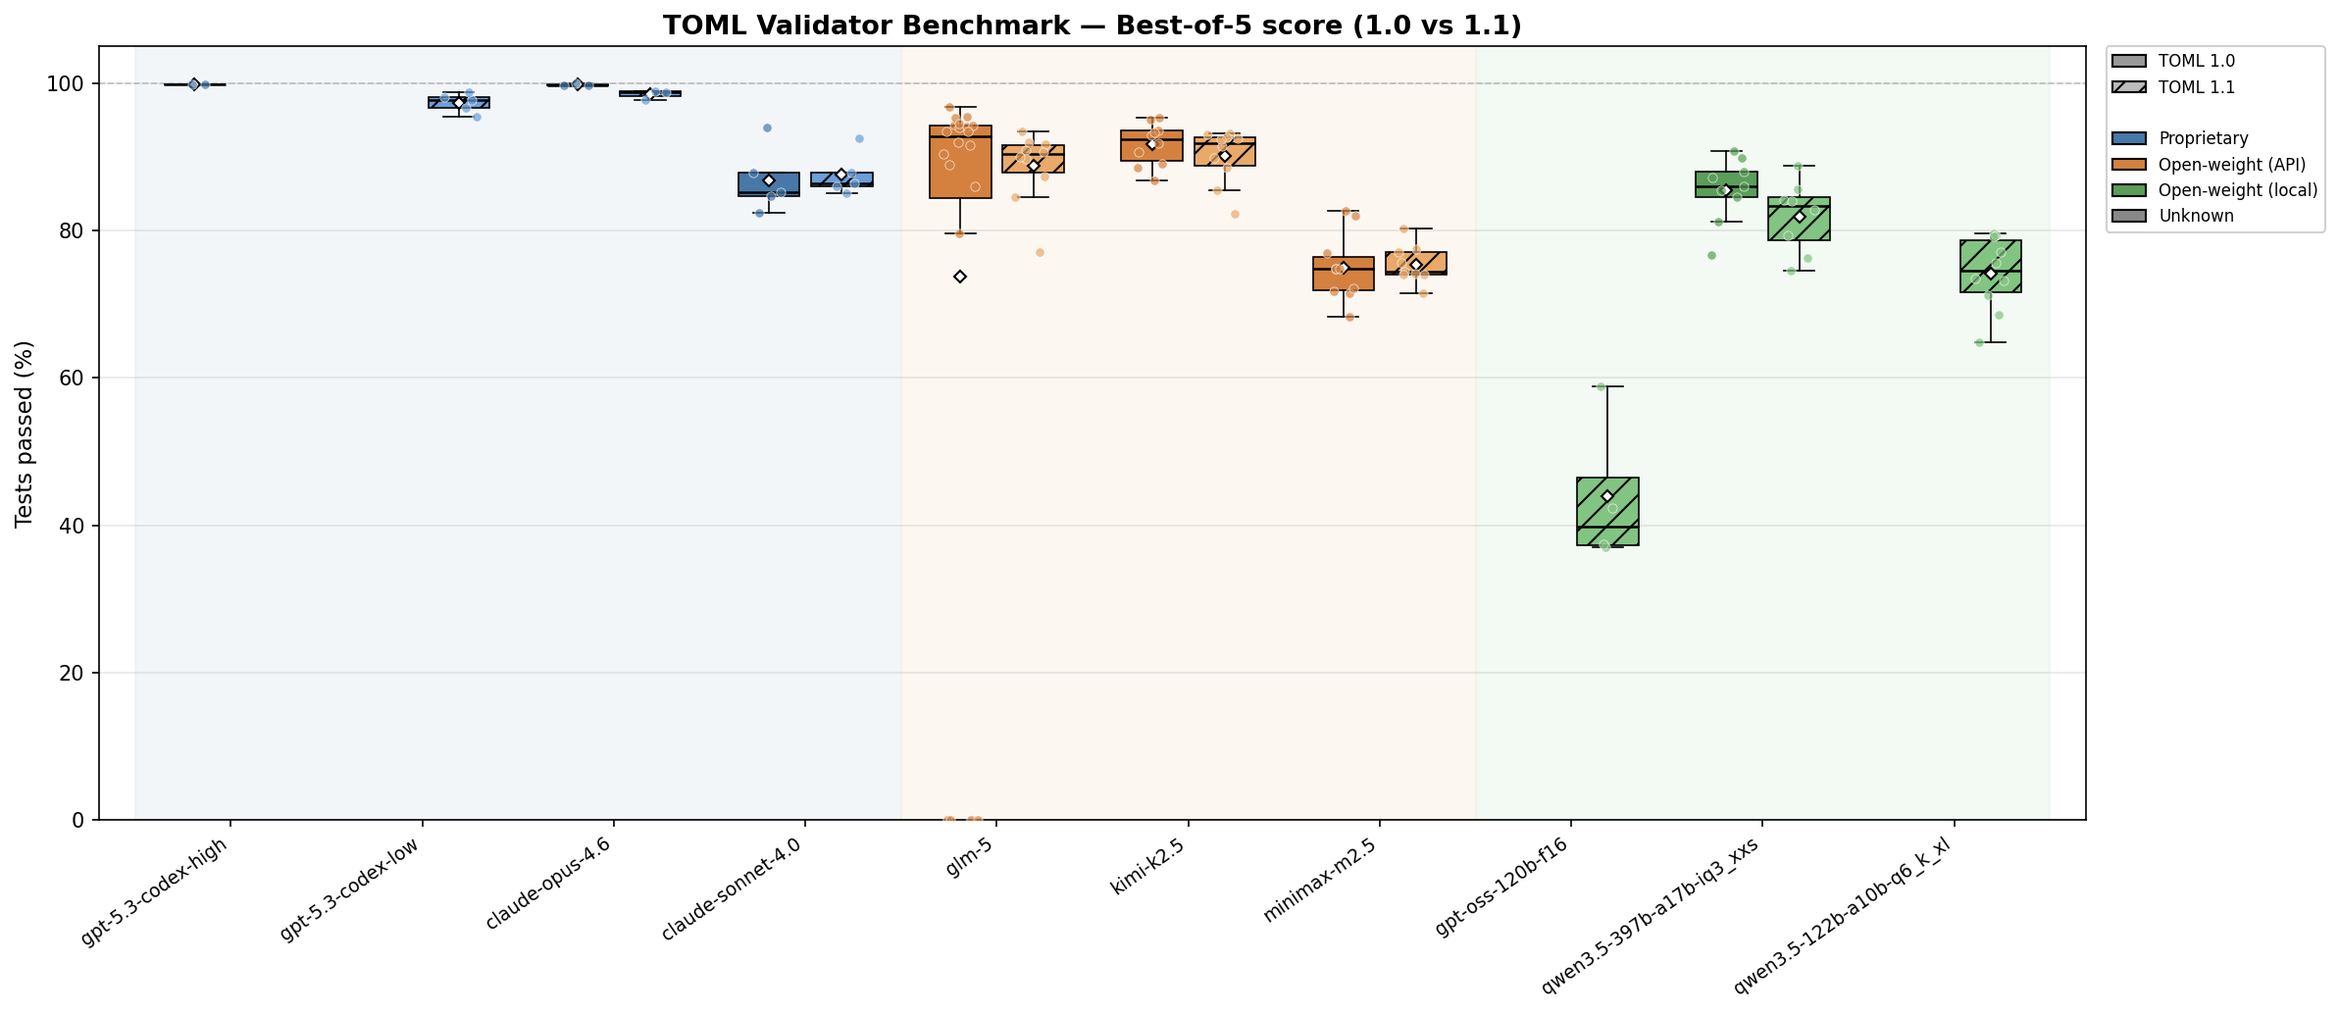
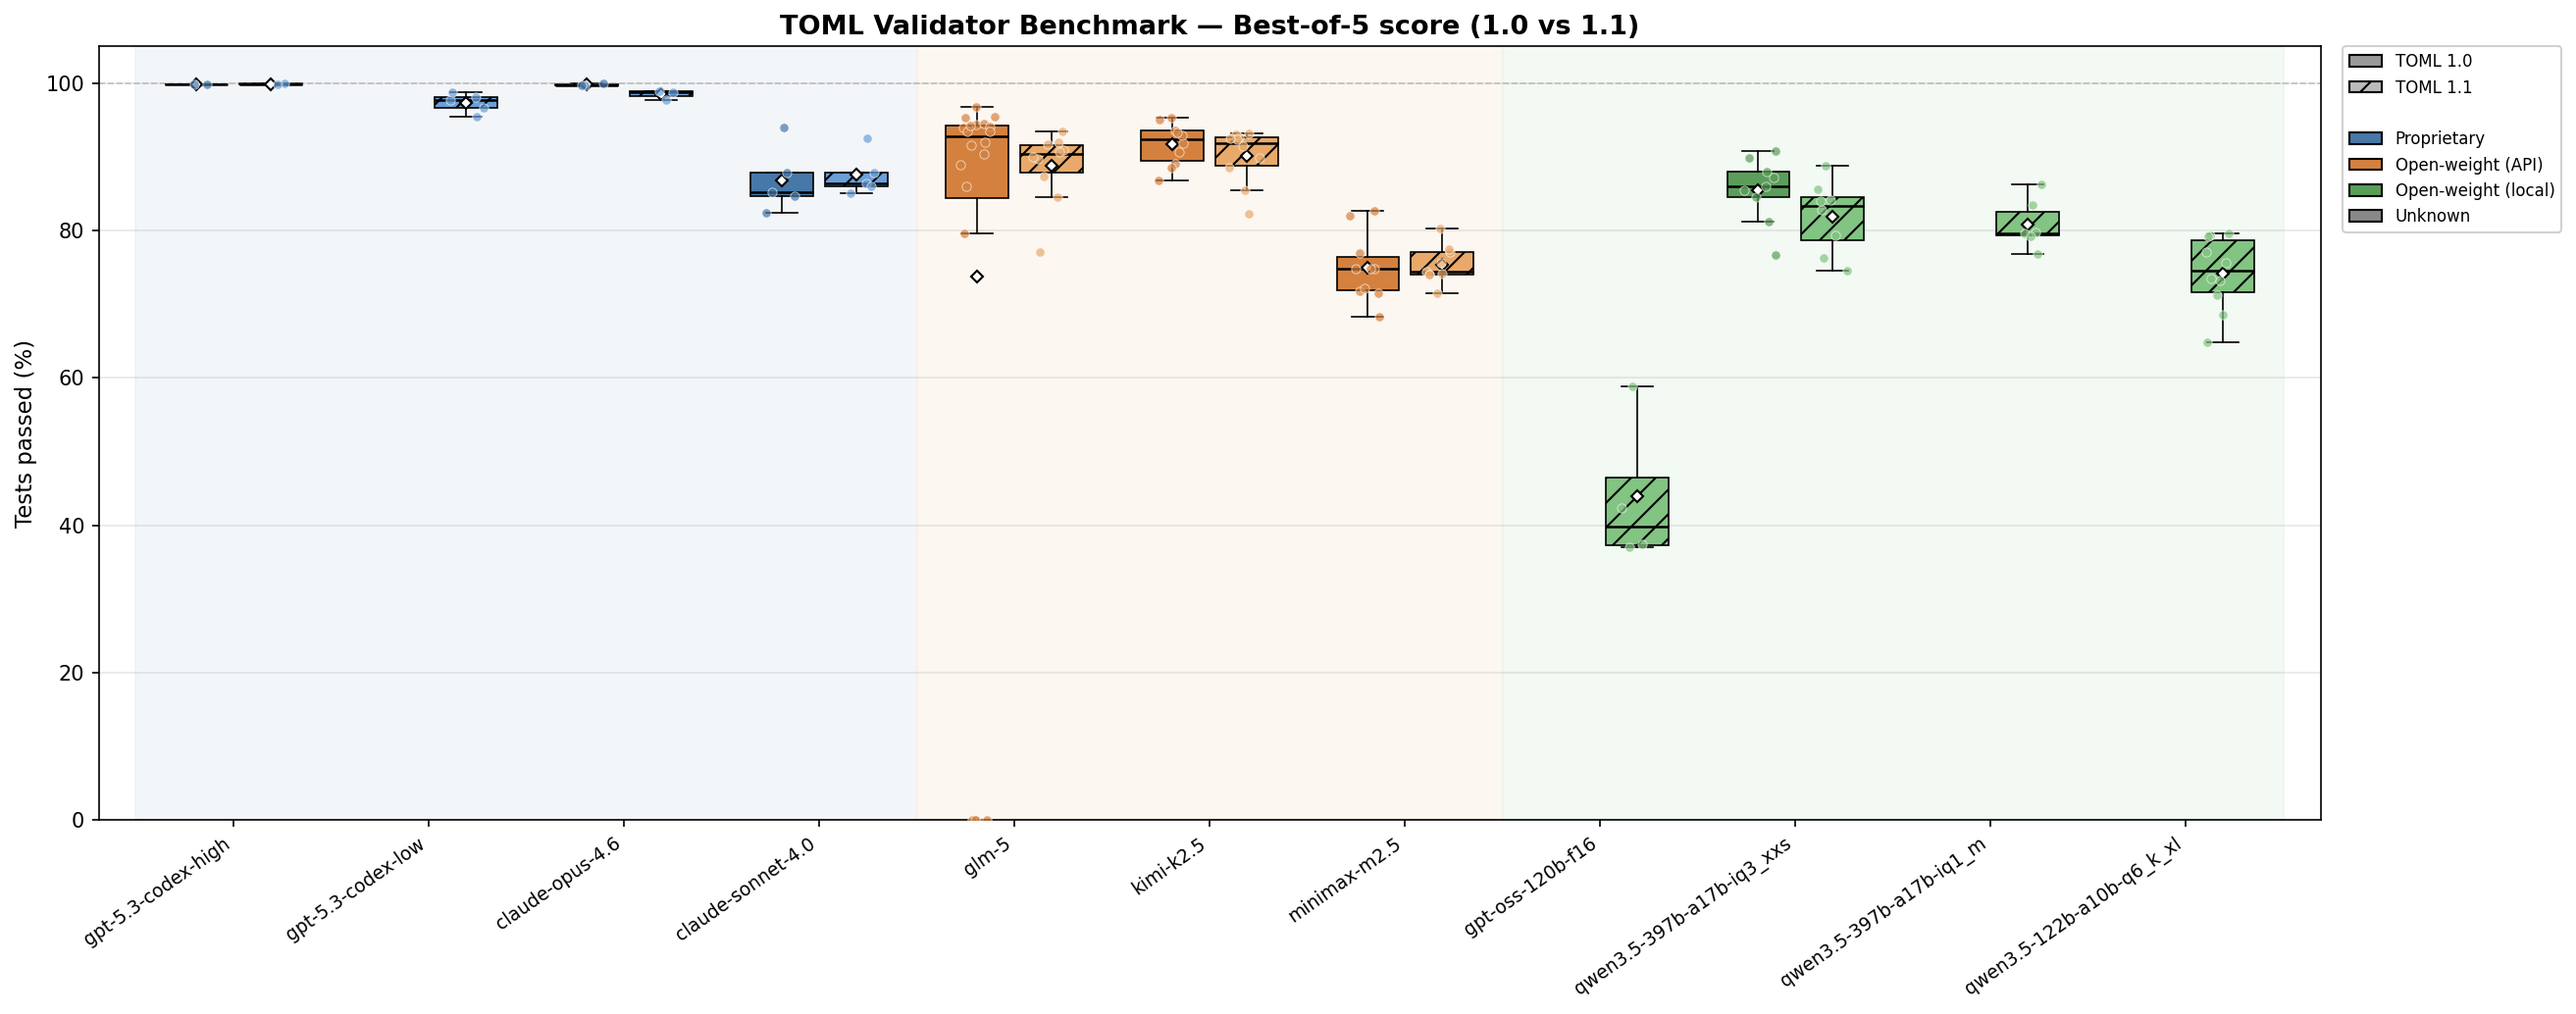
Add gpt-5.3-codex-high (1.1), qwen3.5-397b-a17b-iq1_m (1.1), regenerate
New results:
- gpt-5.3-codex-high on 1.1-cpp: 2 attempts, best-of-5 avg 679.5/680
  (99.9%) — one attempt scored 680/680 (perfect)
- qwen3.5-397b-a17b-iq1_m on 1.1-cpp: 6 attempts, best-of-5 avg
  549.8/680 (80.9%) — heavier quant than IQ3_XXS (81.9%)

Added qwen3.5-397b-a17b-iq1_m to MODEL_CONFIG (local category).

diff --git a/plot_comparison.py b/plot_comparison.py
@@ -26,6 +26,7 @@ MODEL_CONFIG = OrderedDict([
     ("gpt-oss-120b-f16",    "local"),
     ("qwen3.5-397b-a17b",       "local"),
     ("qwen3.5-397b-a17b-iq3_xxs", "local"),
+    ("qwen3.5-397b-a17b-iq1_m",   "local"),
     ("qwen3.5-122b-a10b",         "local"),
     ("qwen3.5-122b-a10b-q6_k_xl", "local"),
     ("qwen3.5-122b-q8",           "local"),
